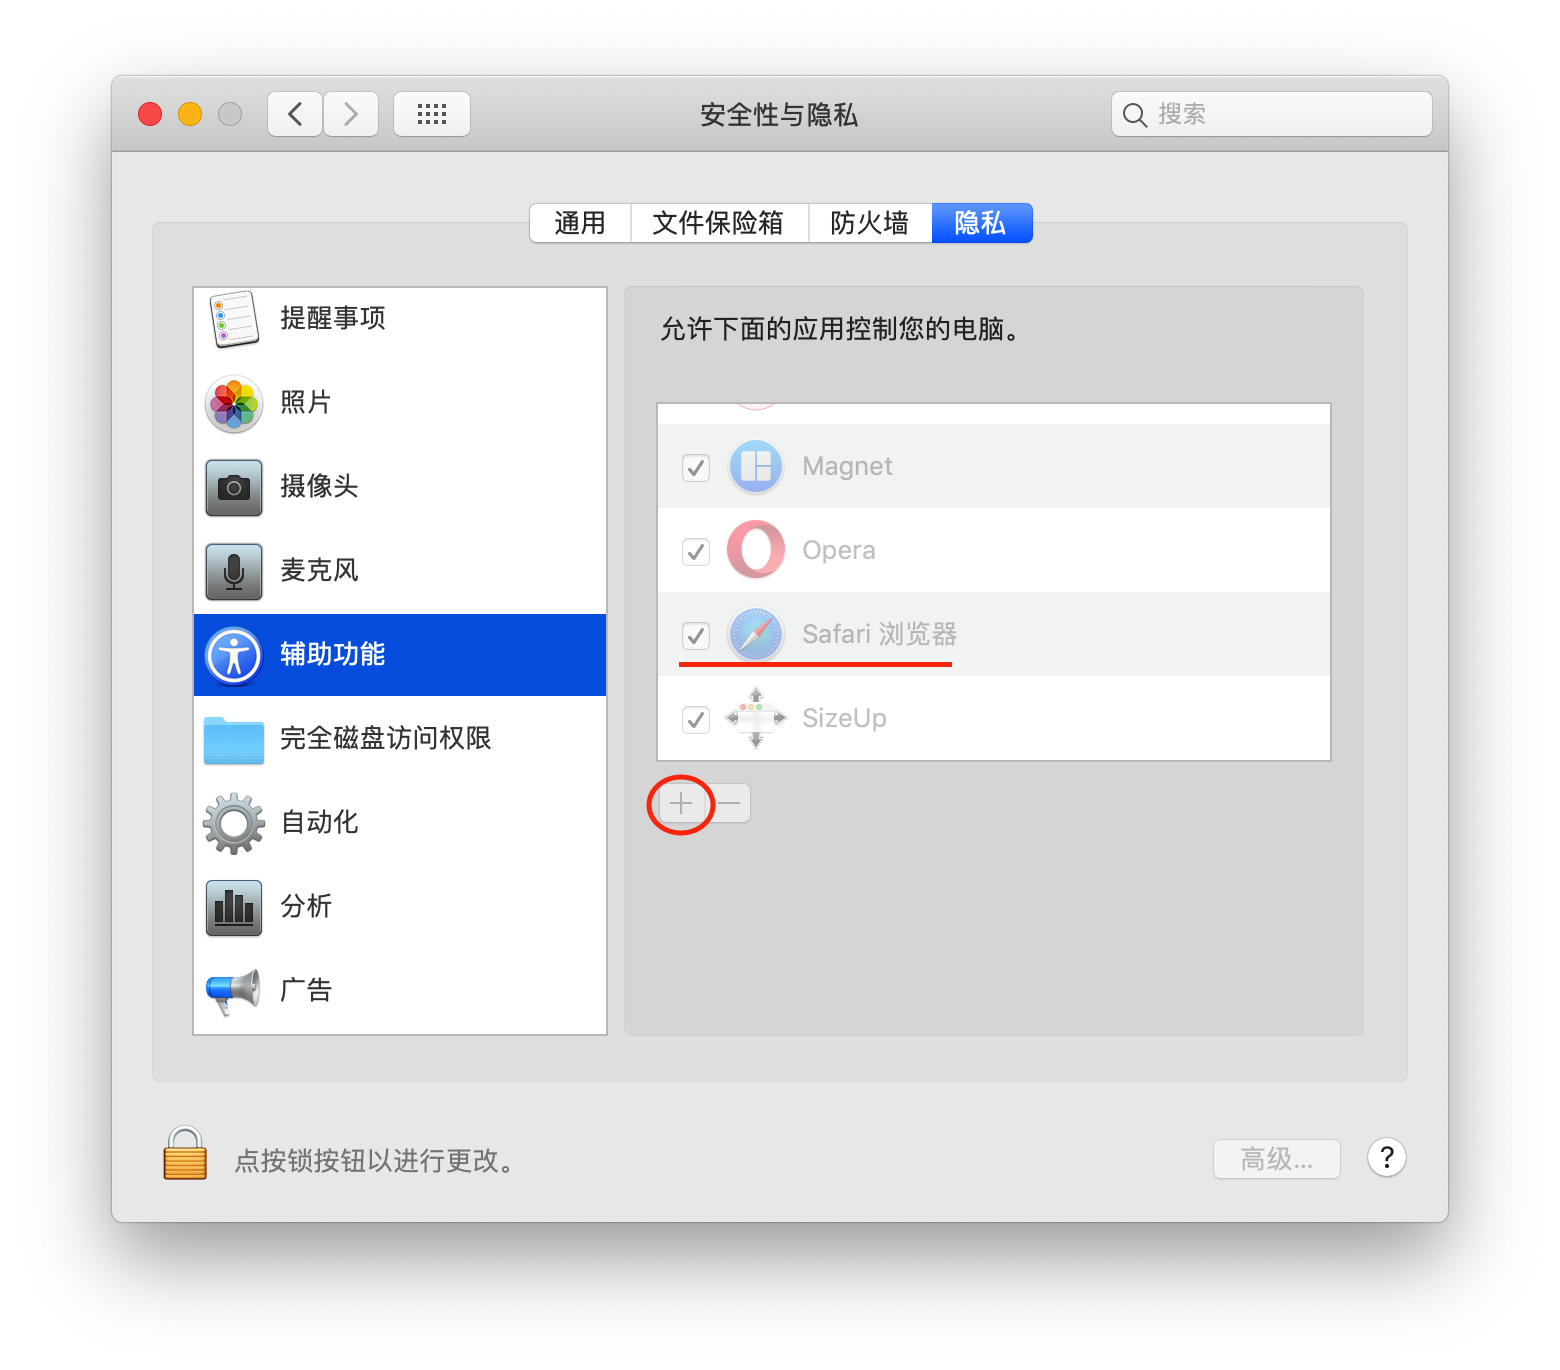
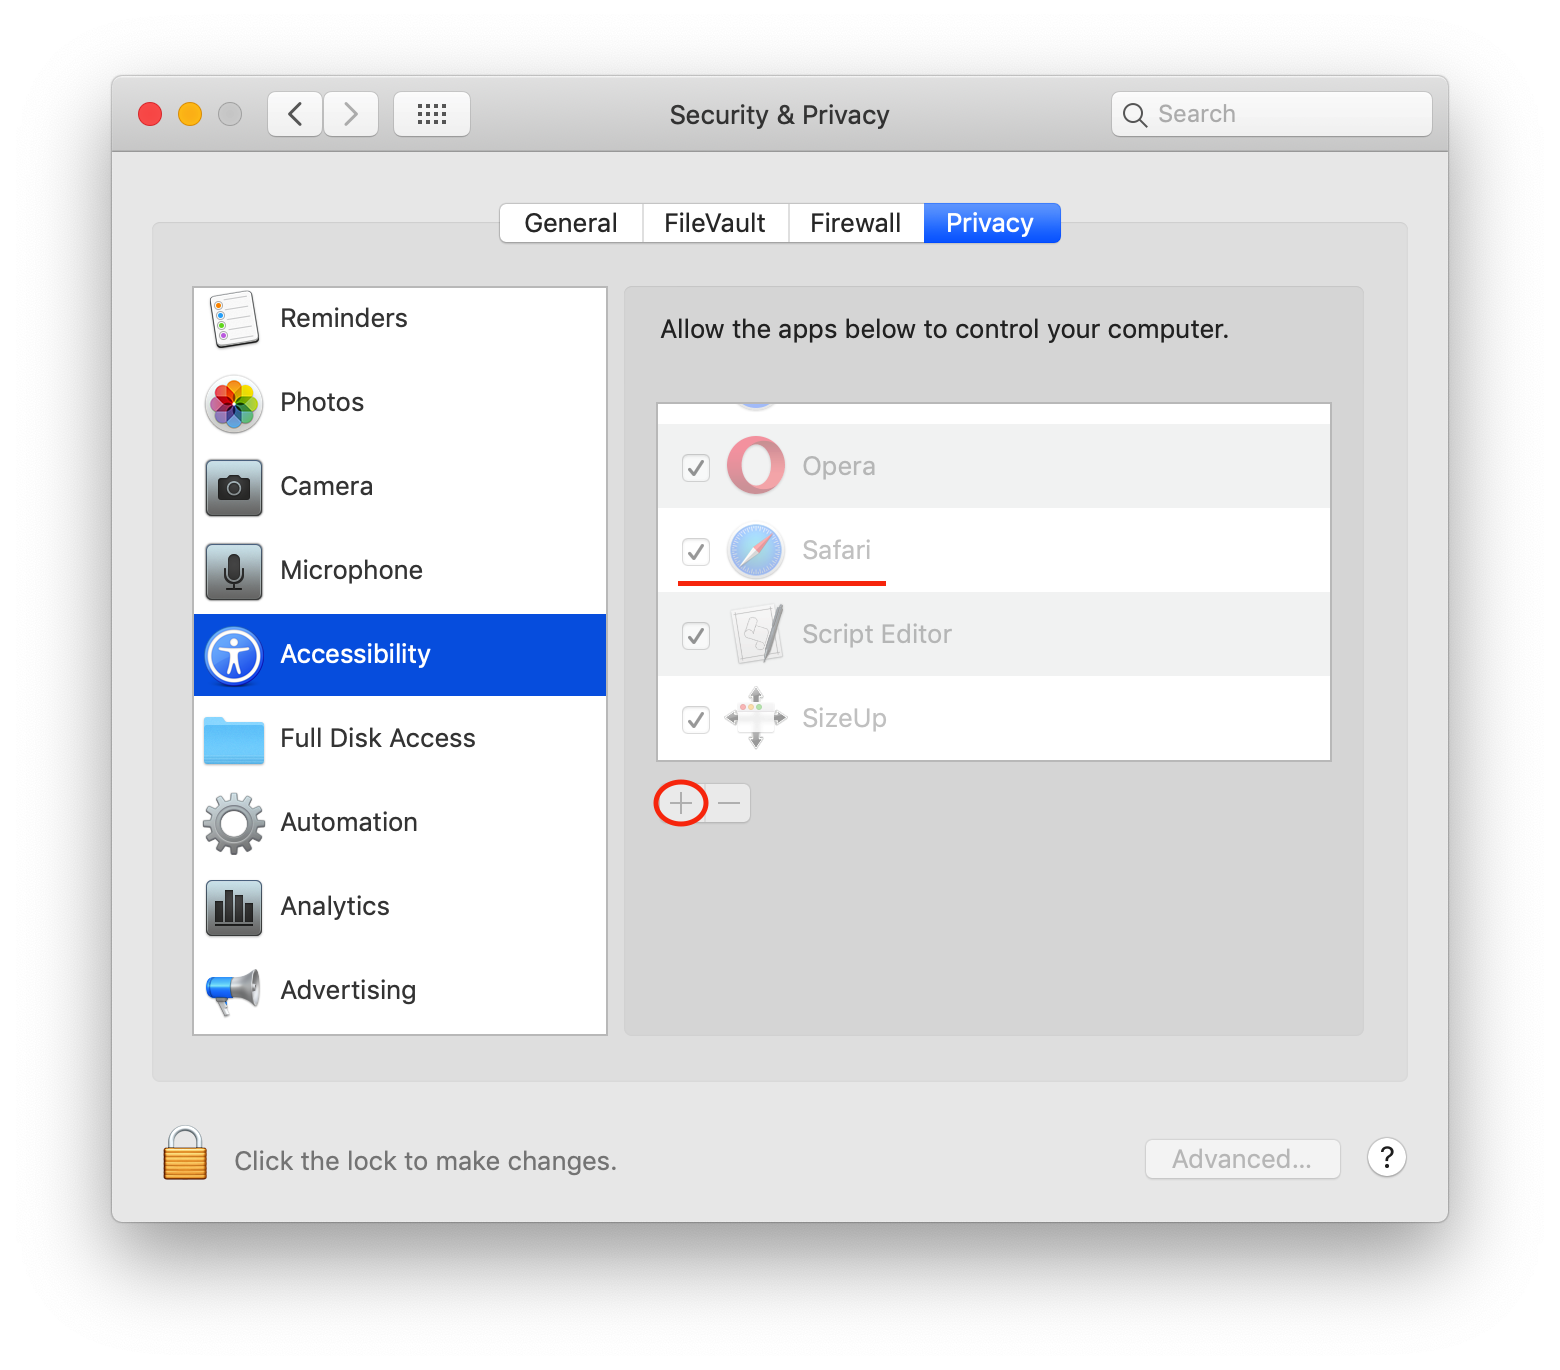
Update images and README

diff --git a/README.md b/README.md
@@ -5,11 +5,29 @@
 
 [English](README.md) | [中文](README-zh.md)
 
+## Introduction
+
+**Copy-to-coteditor** can help you quickly record text when you need to do so in a browser or elsewhere, eliminating the need to open a text editor to Copy and paste, it can be quickly automating text recording with ***applescript***.
+
+## How to Use?
+
+You can select the content which you want to record in the browser or other places, and then use the shortcut key ***fast-copy*** to get the content you want to record in **CotEditor** (the default is plain text, the recording style needs to be set separately in CotEditor).
+
 ## Installation
 
-Clone and run the Copy-to-CotEditor/Copy-to-CotEditor.
+Clone and run the Copy-to-CotEditor/Copy to CotEditor
 
 ```sh
 git clone https://github.com/BoolMark/Copy-to-CotEditor.git
 ```
 
+* After the installation, open the *keyboard shortcuts* and set a shortcut key for **Copy-to-CotEditor**.
+![avatar](images/key.png)
+
+* One thing yout need to note after setting up the shortcut is that you need to enable the *System Events* for your browser or other applications, which typically request access automatically.
+![avatar](images/safe.png)
+
+* Then add the application to the list of **Accessibility**. This step requires to click **"+"** to add the application manually if the application does not request permissions for the Accessibility.
+![avator](images/help.png)
+
+### * Then you can use the shortcut key to make a quick record of the text ! ^_^

diff --git a/README-zh.md b/README-zh.md
@@ -15,12 +15,12 @@
 git clone https://github.com/BoolMark/Copy-to-CotEditor.git
 ```
 * 安装完成后，打开键盘偏好设置，为 Copy to CotEditor 设置一个快捷键
-![avatar](images/key.png)
+![avatar](images/key-zh.png)
 
 * 在设置快捷键之后需要注意的一点就是，你需要开启浏览器或其他程序的自动化控制权限（System Events），一般情况下应用程序会自动请求访问权限。
-![avatar](images/safe.png)
+![avatar](images/safe-zh.png)
 
-* 再将应用程序添加到 **辅助功能** 的列表中，这一步如果应用程序没有请求作为辅助功能的权限就需要你点击 “+” 手动添加。
-![avatar](images/help.png)
+* 再将应用程序添加到 **辅助功能** 的列表中，这一步如果应用程序没有请求作为辅助功能的权限就需要你点击 **“+”** 手动添加。
+![avatar](images/help-zh.png)
 
-#### * 接下来你就可以使用快捷键进行文本的快速记录了！
+### * 接下来你就可以使用快捷键进行文本的快速记录了 ！ ^_^
